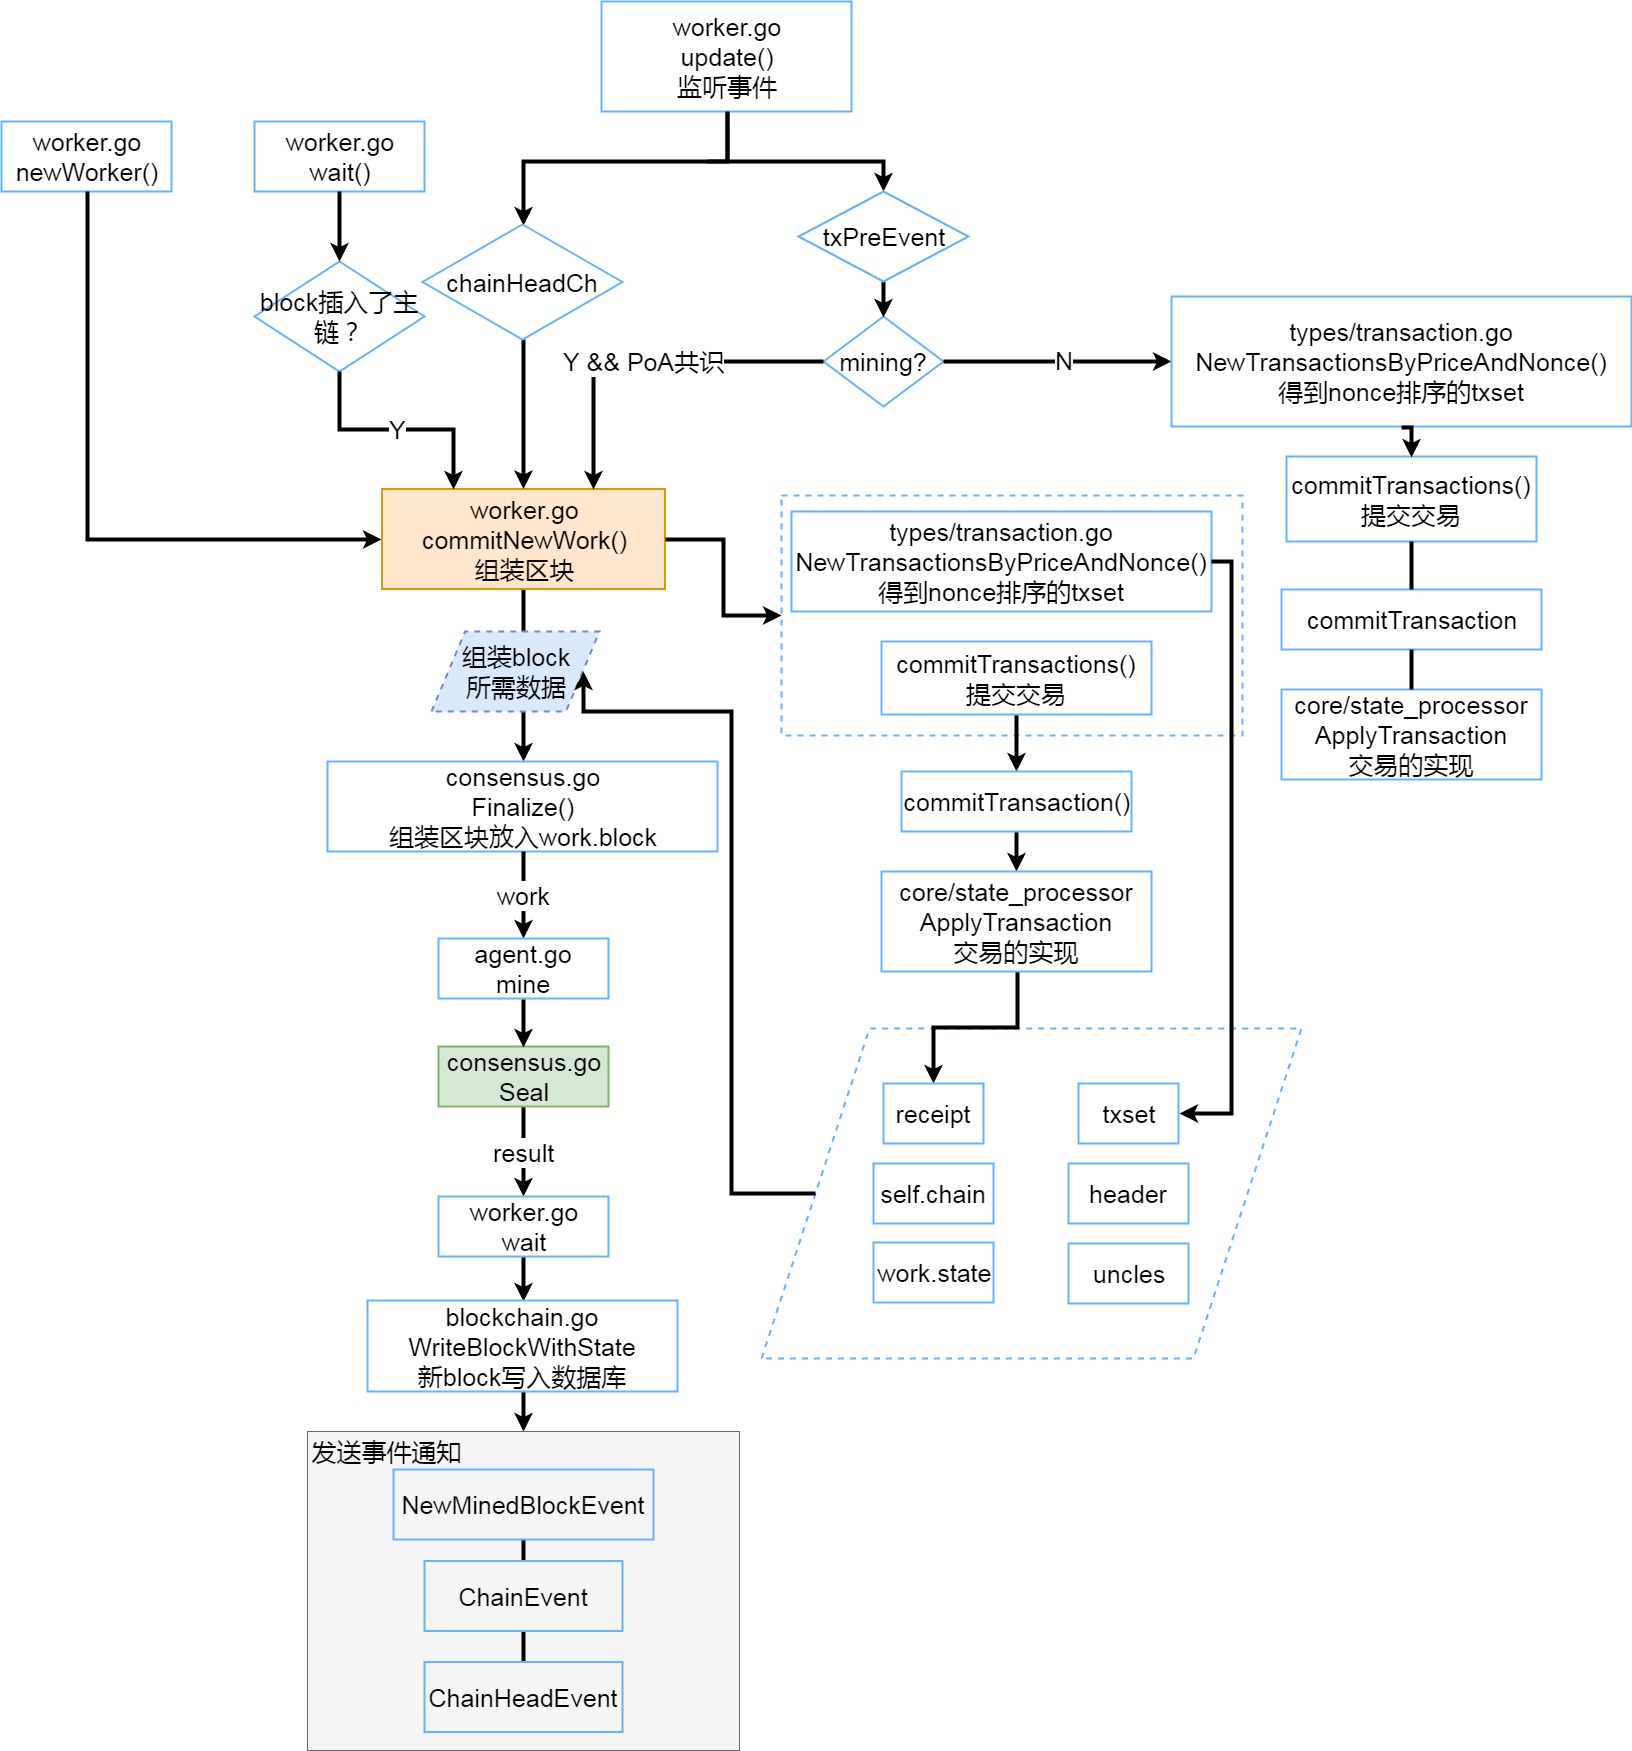
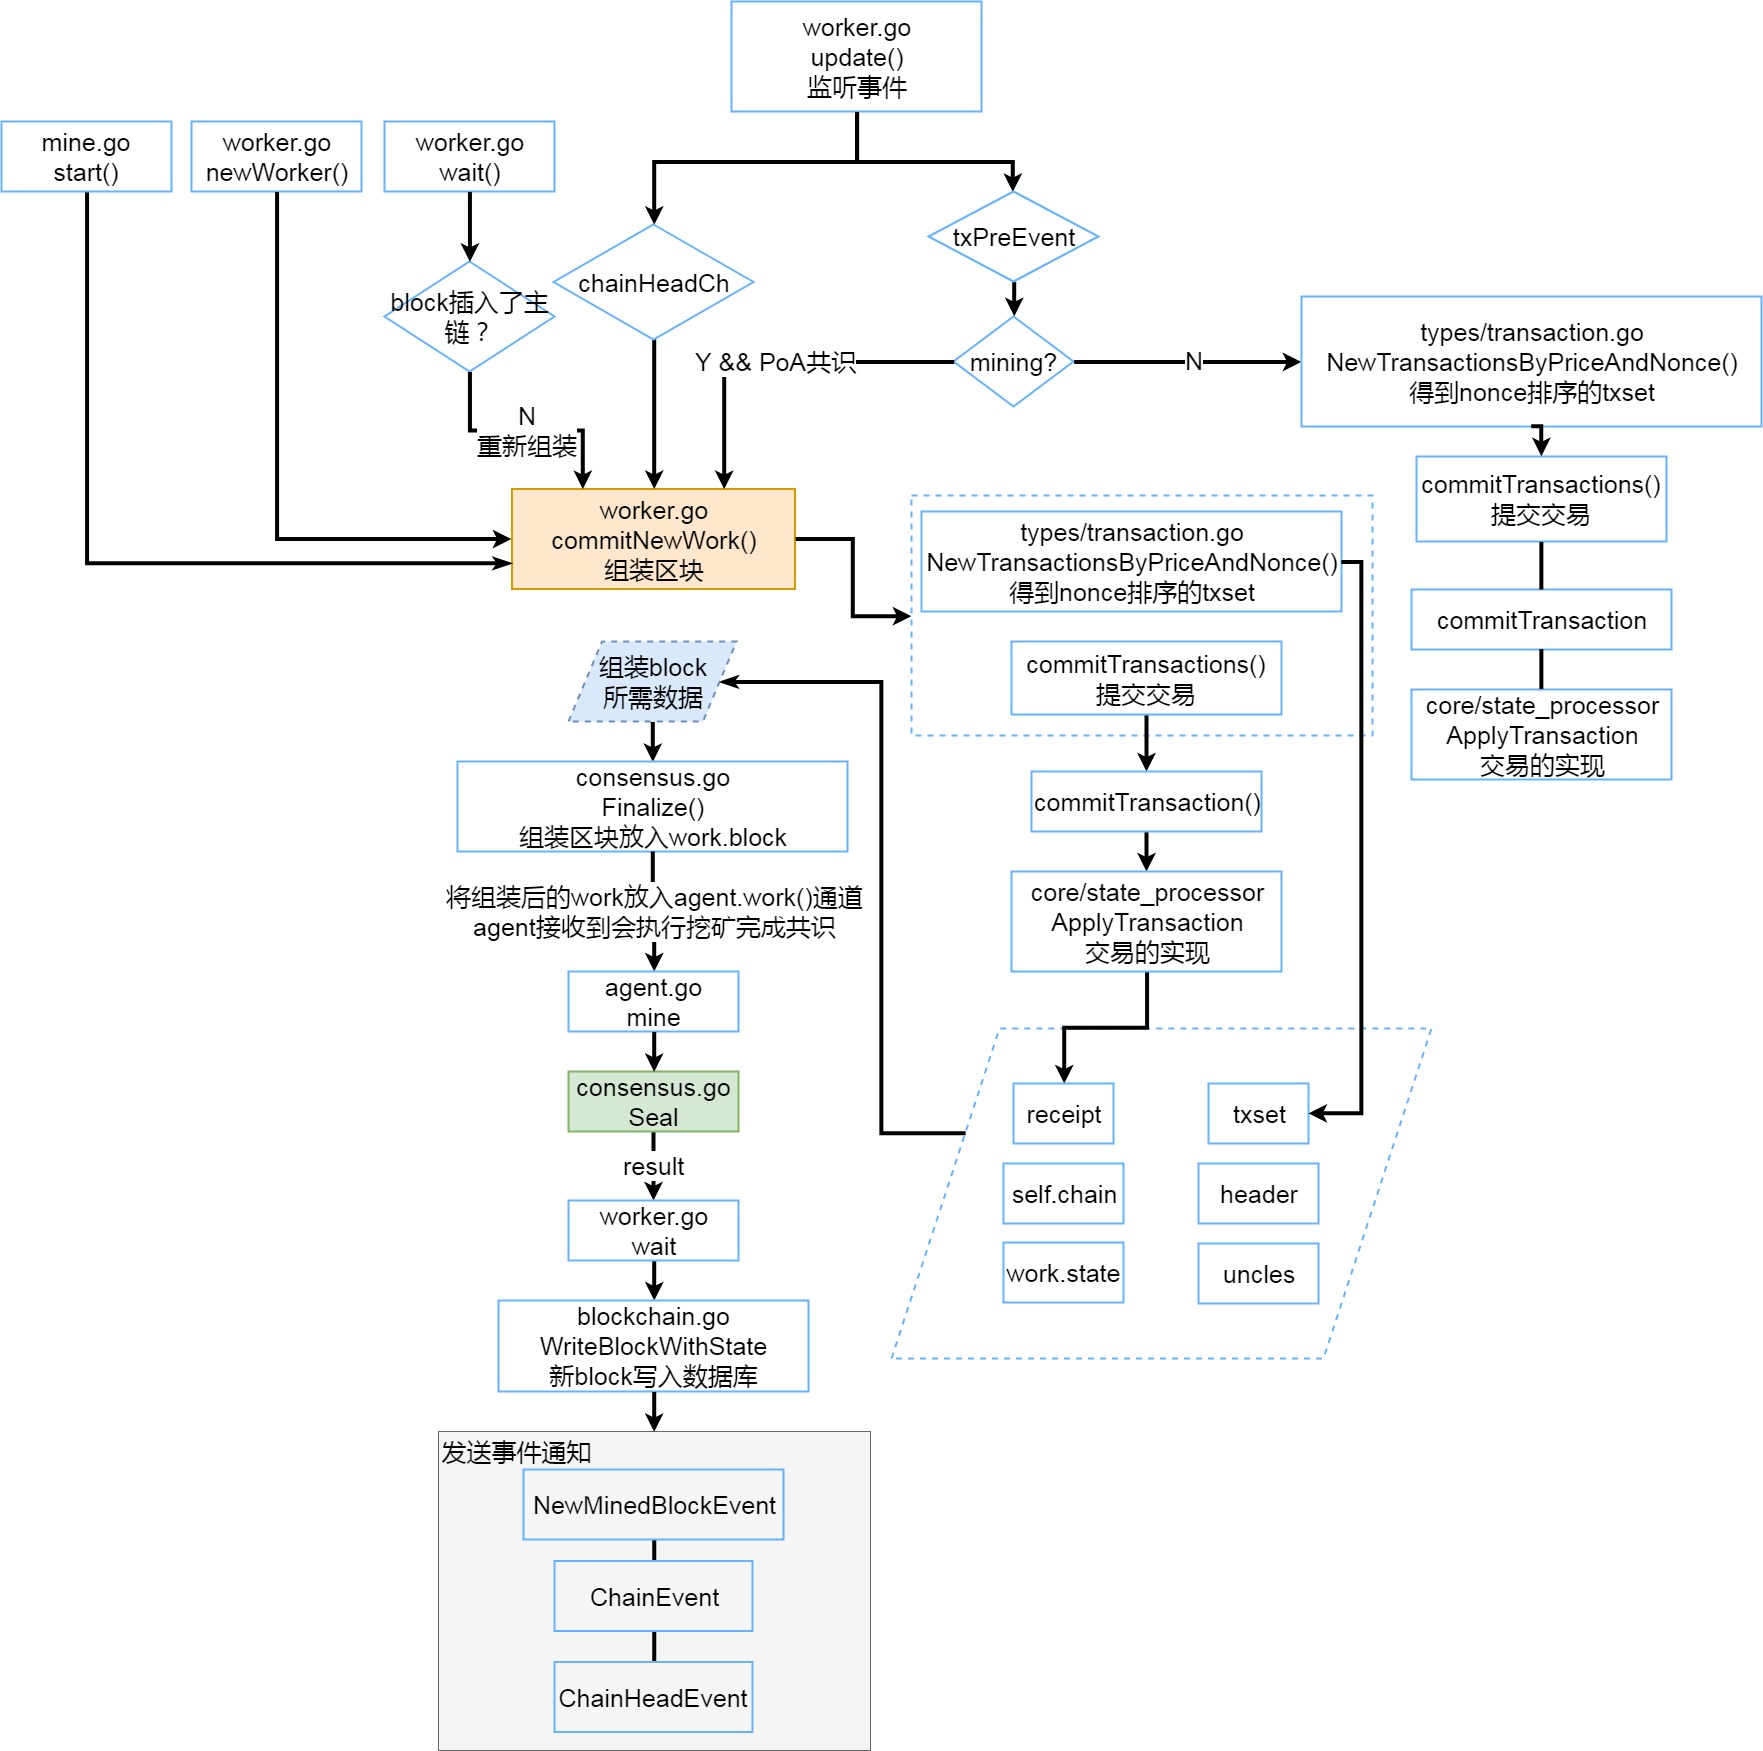
:joy 目录调整，新区块的组装修改

diff --git a/docs/docs/commitNewWork.md b/docs/docs/commitNewWork.md
@@ -1,0 +1,216 @@
+# 本地区块打包--commitNewWork方法,Finalize方法
+
+
+
+本地区块打包就是从本地的交易池中取出交易，执行交易后，打包成一个新的block的过程，再由engine去计算共识的随机数，封装在新的block中，将block广播给邻居，这就是一个挖矿的简单过程。
+
+下面的图片大致说明了commitNewWork方法为核心的流程。
+
+1. 在以下情况下，会触发新的区块组装
+
+> 启动挖矿（miner.go start()方法执行）
+>
+> 自身新block插入但不是主链
+>
+> 接收到chainHeadEvent事件时
+>
+> 接收到一条新交易时（处于挖矿状态并且是PoA共识）
+
+2. commitNewWork会从交易池中取出交易，执行后得到收据receipt和交易改变的状态
+3. 调用共识engine的finalize方法将区块的信息（收据，状态，交易集，叔链）进行组装，返回一个block赋值给work.block
+4. 将work放入agent.Work通道，由agent进行下一步的共识计算
+
+![](./img/whImg/commitNewWork.jpg)
+
+#### 源码分析
+
+commitNewWork方法作用是打包一个新的区块（缺少共识），此方法会将self.chain, header, work.state, work.txs, uncles, work.receipts等信息提交给engine.Finalize方法打包，返回一个只差共识步骤的block。
+
+```go
+// 提交新work  待挖区块的组装
+func (self *worker) commitNewWork() {
+   //defer语句会在该函数结束的时候被调用，即使后面的语句运行时出现异常了defer语句仍然会被执行。
+   //需要注意的是，如果defer语句中引用了参数，则该参数的值将是程序到defer这一行的时候的值，而与后面的语句没有关系
+   self.mu.Lock()
+   defer self.mu.Unlock()
+   self.uncleMu.Lock()
+   defer self.uncleMu.Unlock()
+   self.currentMu.Lock()
+   defer self.currentMu.Unlock()
+
+   // 准备新区块的时间属性Header.Time
+   tstart := time.Now()
+   // 父block是当前链的block
+   parent := self.chain.CurrentBlock()
+
+   // Unix时间
+   tstamp := tstart.Unix()
+   // 父block的时间和tstamp比较
+   if parent.Time().Cmp(new(big.Int).SetInt64(tstamp)) >= 0 {
+      tstamp = parent.Time().Int64() + 1
+   }
+   // this will ensure we're not going off too far in the future
+   // 这将确认我们没有分离的太远
+   // tstamp大于当前时间+1
+   if now := time.Now().Unix(); tstamp > now+1 {
+      // 时间差
+      wait := time.Duration(tstamp-now) * time.Second
+      // 挖掘太远
+      log.Info("Mining too far in the future", "wait", common.PrettyDuration(wait))
+      // 等待
+      time.Sleep(wait)
+   }
+
+   // block号
+   num := parent.Number()
+
+   // 创建新区块的Header对象
+   header := &types.Header{
+      // 父块hash
+      ParentHash: parent.Hash(),
+      // block 号
+      Number:     num.Add(num, common.Big1),
+      // gas限制
+      GasLimit:   core.CalcGasLimit(parent),
+      // EXTRA
+      Extra:      self.extra,
+      // 时间
+      Time:       big.NewInt(tstamp),
+   }
+   // Only set the coinbase if we are mining (avoid spurious block rewards)
+   // 只要在正在挖矿时设置coinbase，避免假的块奖励
+   if atomic.LoadInt32(&self.mining) == 1 {
+      header.Coinbase = self.coinbase
+   }
+   // 完成Header对象的准备,用来对Header.Difficulty等属性赋值
+   if err := self.engine.Prepare(self.chain, header); err != nil {
+      log.Error("Failed to prepare header for mining", "err", err)
+      return
+   }
+   // If we are care about TheDAO hard-fork check whether to override the extra-data or not
+   // 根据新区块的位置(Number)，查看它是否处于DAO硬分叉的影响范围内，如果是，则赋值予header.Extra。
+   if daoBlock := self.config.DAOForkBlock; daoBlock != nil {
+      // Check whether the block is among the fork extra-override range
+      limit := new(big.Int).Add(daoBlock, params.DAOForkExtraRange)
+      if header.Number.Cmp(daoBlock) >= 0 && header.Number.Cmp(limit) < 0 {
+         // Depending whether we support or oppose the fork, override differently
+         if self.config.DAOForkSupport {
+            header.Extra = common.CopyBytes(params.DAOForkBlockExtra)
+         } else if bytes.Equal(header.Extra, params.DAOForkBlockExtra) {
+            header.Extra = []byte{} // If miner opposes, don't let it use the reserved extra-data
+         }
+      }
+   }
+   // Could potentially happen if starting to mine in an odd state.
+   // 赋值给self.current
+   err := self.makeCurrent(parent, header)
+   if err != nil {
+      log.Error("Failed to create mining context", "err", err)
+      return
+   }
+   // Create the current work task and check any fork transitions needed
+   // 根据已有的Header对象，创建一个新的Work对象，并用其更新worker.current成员变量
+   work := self.current
+   // 如果配置信息中支持硬分叉，在Work对象的StateDB里应用硬分叉
+   if self.config.DAOForkSupport && self.config.DAOForkBlock != nil && self.config.DAOForkBlock.Cmp(header.Number) == 0 {
+      misc.ApplyDAOHardFork(work.state)
+   }
+
+   // 准备新区块的交易列表，来源是TxPool.pending，并执行这些交易
+   pending, err := self.eth.TxPool().Pending()
+   if err != nil {
+      log.Error("Failed to fetch pending transactions", "err", err)
+      return
+   }
+
+   // 返回交易集合
+   txs := types.NewTransactionsByPriceAndNonce(self.current.signer, pending)
+   // 提交交易
+   work.commitTransactions(self.mux, txs, self.chain, self.coinbase)
+
+   // compute uncles for the new block.
+   // 准备新区块的叔区块uncles[]，来源是worker.possibleUncles[]
+   var (
+      uncles    []*types.Header
+      badUncles []common.Hash
+   )
+   // 遍历叔块
+   for hash, uncle := range self.possibleUncles {
+      if len(uncles) == 2 {
+         break
+      }
+      // 提交uncle进行验证
+      if err := self.commitUncle(work, uncle.Header()); err != nil {
+         // bad叔块
+         log.Trace("Bad uncle found and will be removed", "hash", hash)
+         log.Trace(fmt.Sprint(uncle))
+
+         badUncles = append(badUncles, hash)
+      } else {
+         // 正确的叔块
+         log.Debug("Committing new uncle to block", "hash", hash)
+         uncles = append(uncles, uncle.Header())
+      }
+   }
+   // 删除所有的badUncles
+   for _, hash := range badUncles {
+      delete(self.possibleUncles, hash)
+   }
+   // Create the new block to seal with the consensus engine
+
+   // 调用Engine.Finalize()函数，对新区块“定型”，填充上Header.Root, TxHash, ReceiptHash, UncleHash等几个属性
+   if work.Block, err = self.engine.Finalize(self.chain, header, work.state, work.txs, uncles, work.receipts); err != nil {
+      log.Error("Failed to finalize block for sealing", "err", err)
+      return
+   }
+   // We only care about logging if we're actually mining.
+   // 如果上一个区块(即旧的链头区块)处于unconfirmedBlocks中，意味着它也是由本节点挖掘出来的，尝试去验证它已经被吸纳进主干链中
+   // 如果我们正在挖矿
+   if atomic.LoadInt32(&self.mining) == 1 {
+      log.Info("Commit new mining work", "number", work.Block.Number(), "txs", work.tcount, "uncles", len(uncles), "elapsed", common.PrettyDuration(time.Since(tstart)))
+
+      // 丢弃number-1以前的未确认块
+      self.unconfirmed.Shift(work.Block.NumberU64() - 1)
+   }
+   // 把创建的Work对象，通过channel发送给每一个登记过的Agent，进行后续的挖掘
+   self.push(work)
+}
+```
+
+
+
+**Ethash的Finalize方法**
+
+[Ethash](Ethash.md)是PoW的共识计算方法，其算力依赖于内存和带宽，而不是cpu性能
+
+```go
+// 累计block和uncle 的汇报，设置最终状态，组装区块
+func (ethash *Ethash) Finalize(chain consensus.ChainReader, header *types.Header, state *state.StateDB, txs []*types.Transaction, uncles []*types.Header, receipts []*types.Receipt) (*types.Block, error) {
+   // Accumulate any block and uncle rewards and commit the final state root
+   // 计算收益
+   accumulateRewards(chain.Config(), state, header, uncles)
+   // 状态树Root
+   header.Root = state.IntermediateRoot(chain.Config().IsEIP158(header.Number))
+
+   // Header seems complete, assemble into a block and return
+   return types.NewBlock(header, txs, uncles, receipts), nil
+}
+```
+
+**Clique的Finalize方法**
+
+Clique是以太坊实现的一个简单的PoA共识机制，通过投票决定委员会节点的加入退出，由委员会节点轮流打包区块
+
+```go
+// 实现共识机制，确保没有叔链，没有block奖励被给予，返回最终block
+func (c *Clique) Finalize(chain consensus.ChainReader, header *types.Header, state *state.StateDB, txs []*types.Transaction, uncles []*types.Header, receipts []*types.Receipt) (*types.Block, error) {
+   // No block rewards in PoA, so the state remains as is and uncles are dropped
+   // PoA没有block奖励，所有状态保持不变，并且没有叔链
+   header.Root = state.IntermediateRoot(chain.Config().IsEIP158(header.Number))
+   header.UncleHash = types.CalcUncleHash(nil)
+
+   // Assemble and return the final block for sealing
+   // 组装并返回最终块sealing
+   return types.NewBlock(header, txs, nil, receipts), nil
+}
+```

diff --git a/docs/README.md b/docs/README.md
@@ -10,12 +10,22 @@
   * 数据结构与存储
       * [区块与交易数据结构初探](./docs/blockTransactionDataStructure.md)
       * [数据存储与组织](./docs/dataStructureStorage.md)
+  * 邻居区块插入
+      - [新区块插入](/newBlockInsert.md)
+      - [fetcher与downloader](./docs/fetcherAndDownLoader.md)
+      - [[新区块写入区块链](/insertChainAndWriteBlockWithState.md)]()
+      - [[以太坊中三棵树的存储](/threeTrees.md)](./docs/applyTransaction.md)
+  * 区块挖掘
+      * [[Miner包中的挖矿流程](./docs/minerPackage.md)](./docs/transactionAndBlock.md)
+      * [本地区块的组装](./docs/commitNewWork.md)
+      * [共识机制与Consensus包](./docs/consensus.md)
   * 交易的执行
       * [Transaction与block的打包与提交](./docs/transactionAndBlock.md)
       * [Gas管理 DoS攻击 交易打包与执行 交易堵塞]()
       * [Gas价目与虚拟机外的交易执行](./docs/applyTransaction.md)
       * [EVM解释器](./docs/evmInterpreter.md)
   * 共识算法
+      * [Ethash](./docs/Ethash.md)
       * [区块验证细节](./docs/verifyBlock.md)
           * [Sender函数](./docs/sender.md)
   * 以太坊虚拟机
